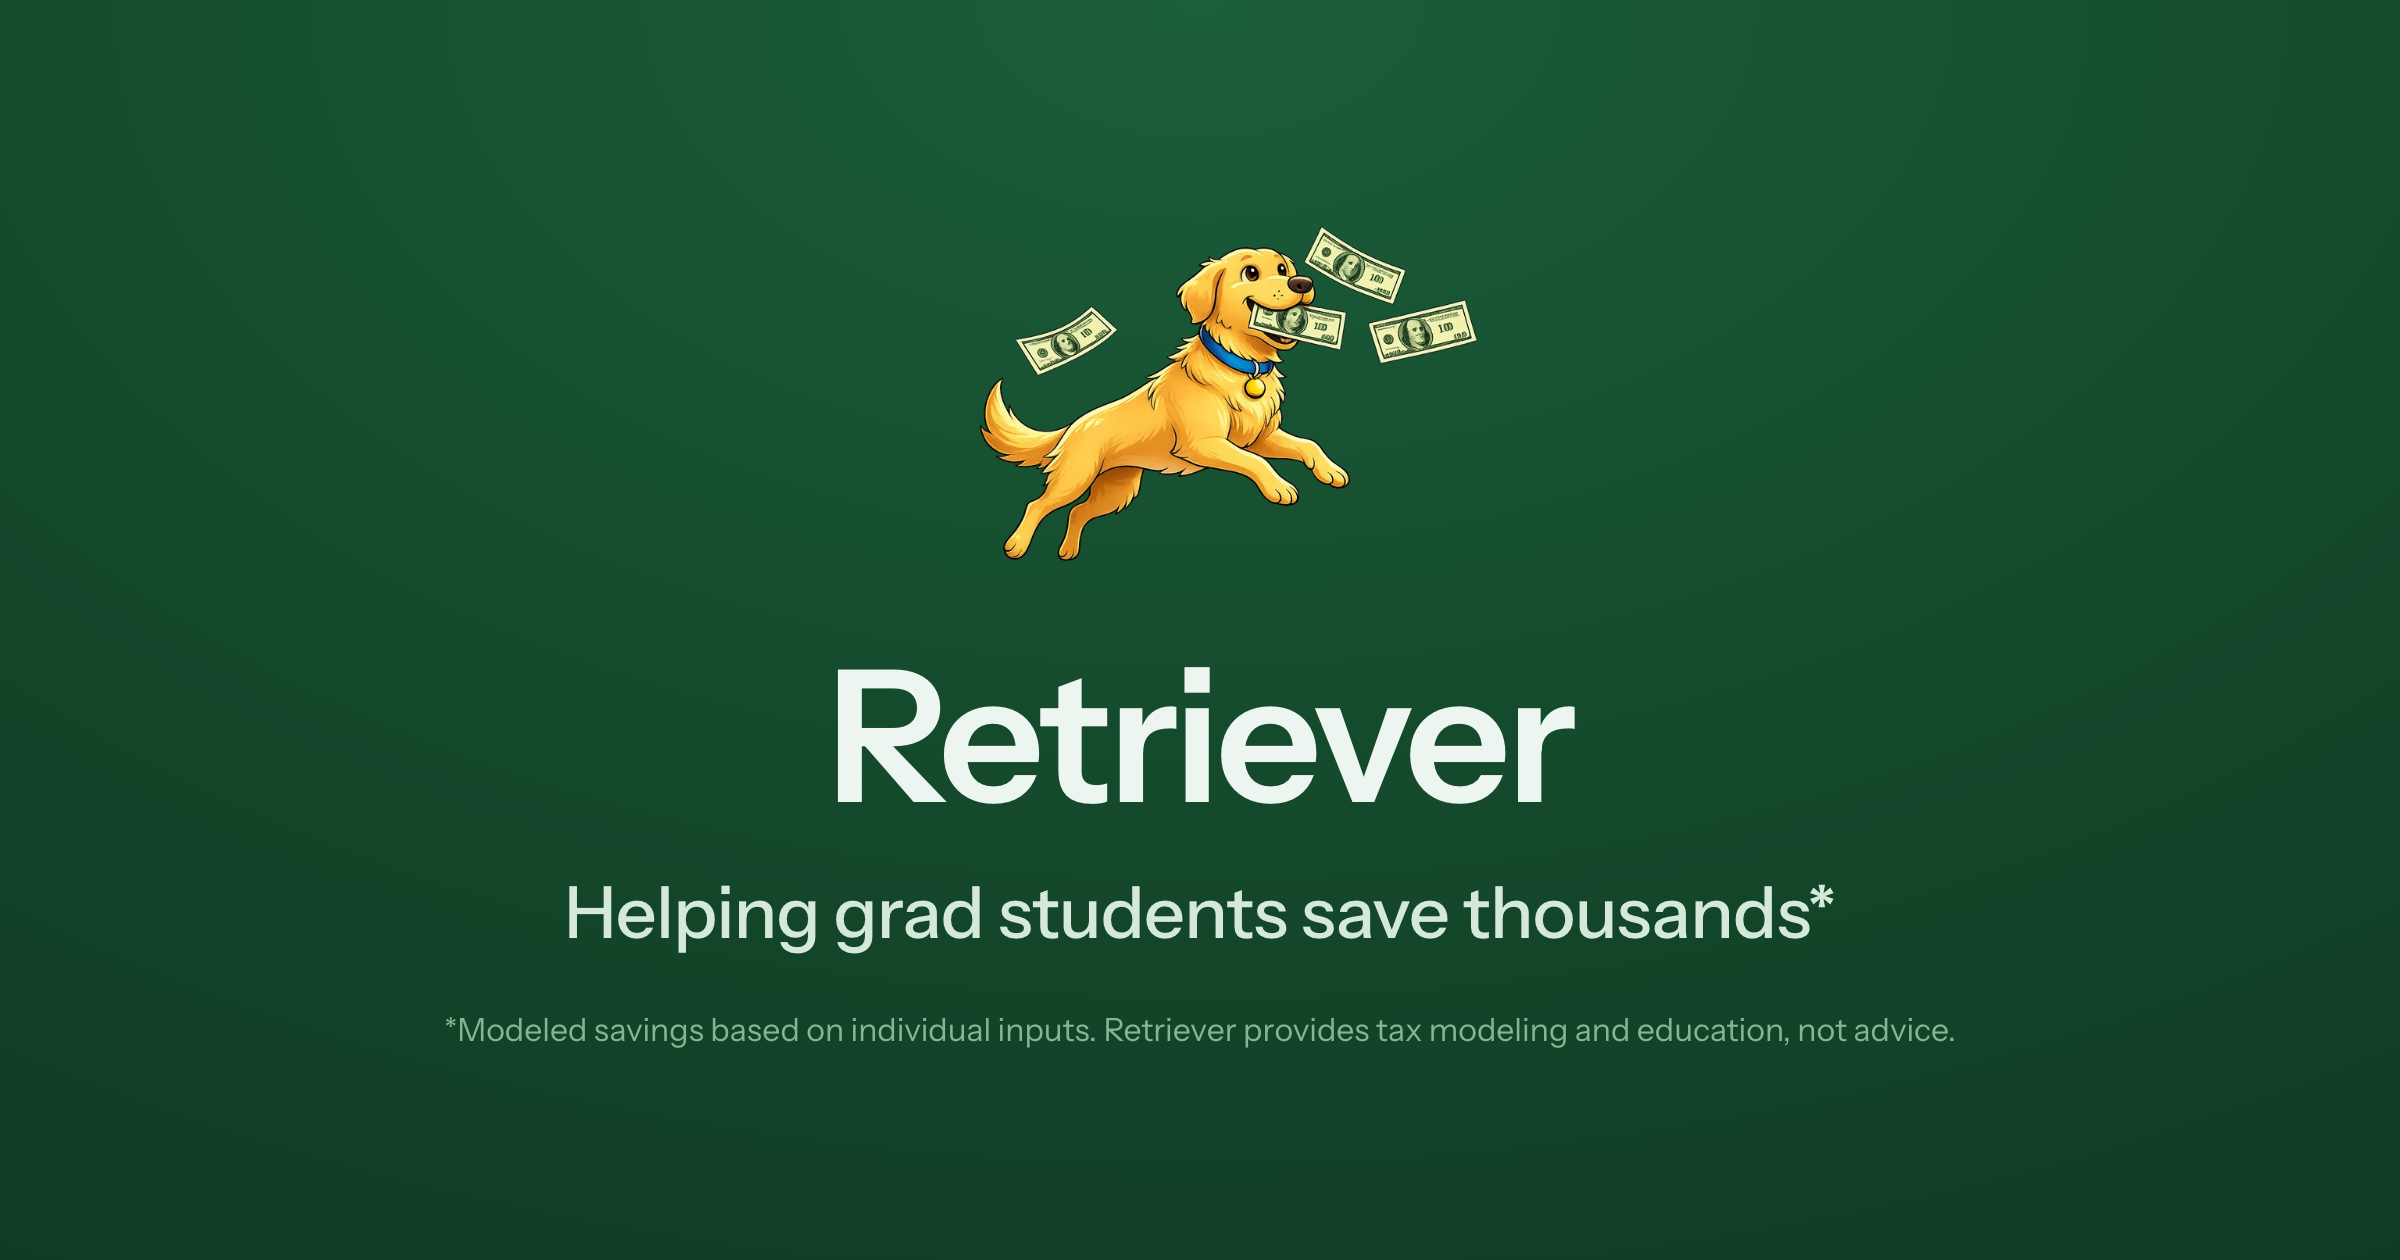
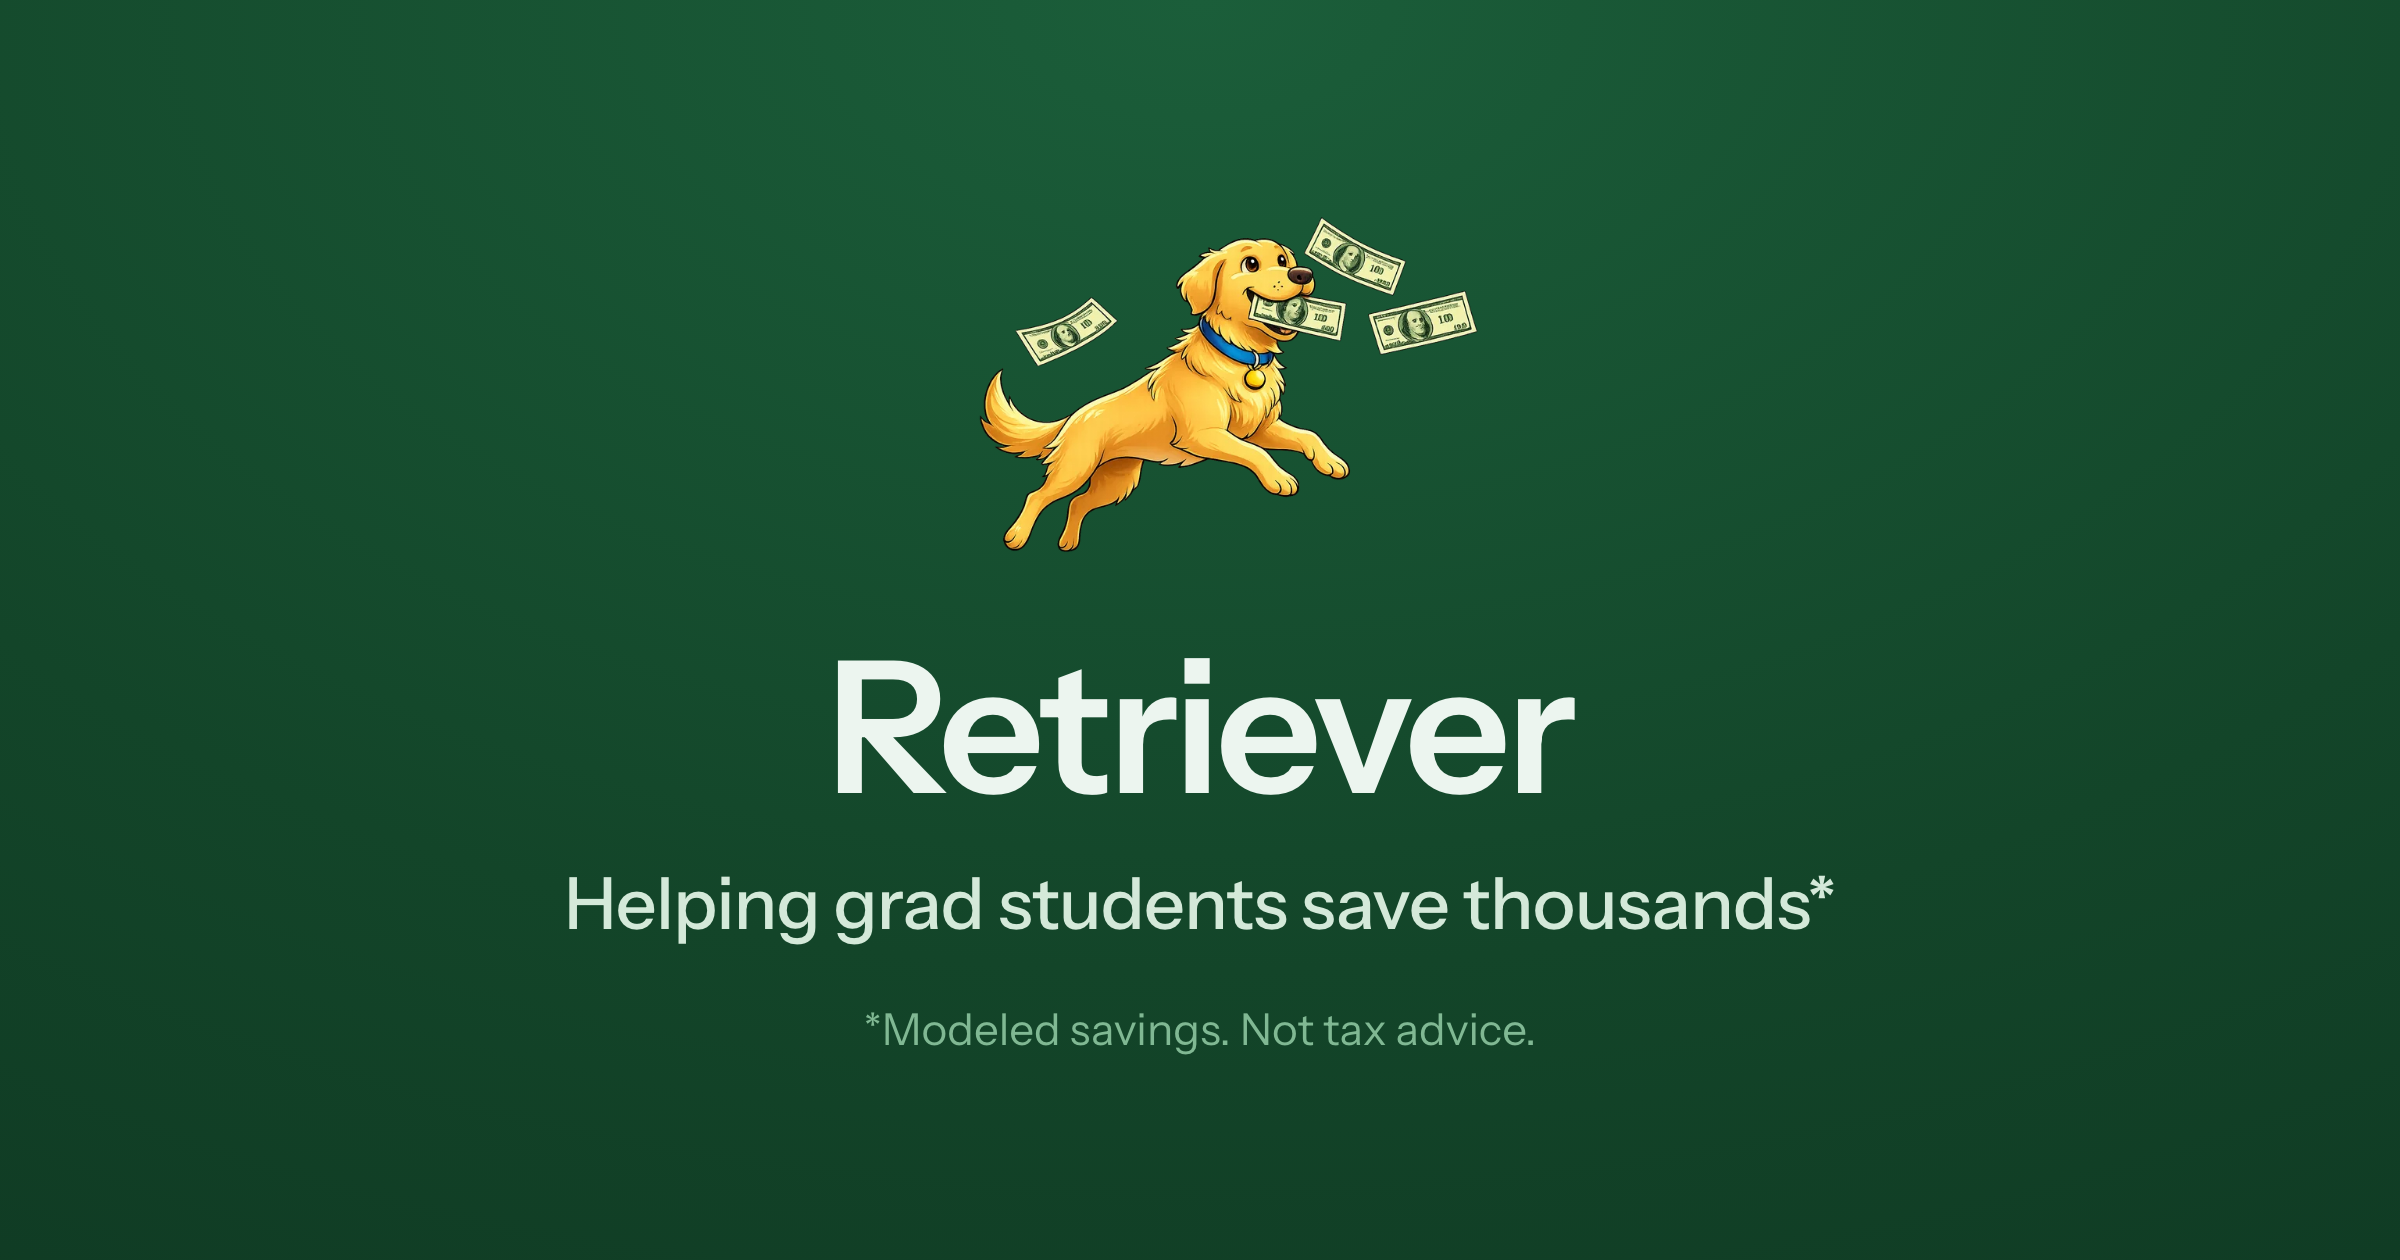
Shorten share card footnote and increase its size

diff --git a/og-card-src.html b/og-card-src.html
@@ -38,7 +38,7 @@
   }
   .footnote {
     margin-top: 26px;
-    font-size: 16px;
+    font-size: 22px;
     font-weight: 400;
     color: #80b893;
     max-width: 760px;
@@ -51,7 +51,7 @@
     <img class="mascot" src="retriever-mascot.webp" alt="">
     <div class="wordmark">Retriever</div>
     <div class="tagline">Helping grad students save thousands*</div>
-    <div class="footnote">*Modeled savings based on individual inputs. Retriever provides tax modeling and education, not advice.</div>
+    <div class="footnote">*Modeled savings. Not tax advice.</div>
   </div>
 </body>
 </html>
